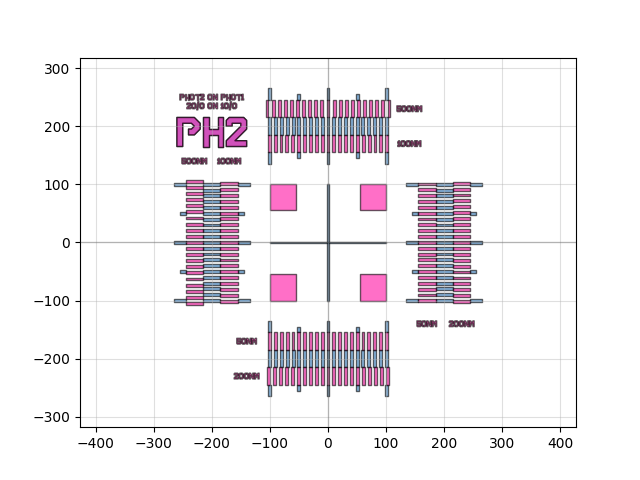
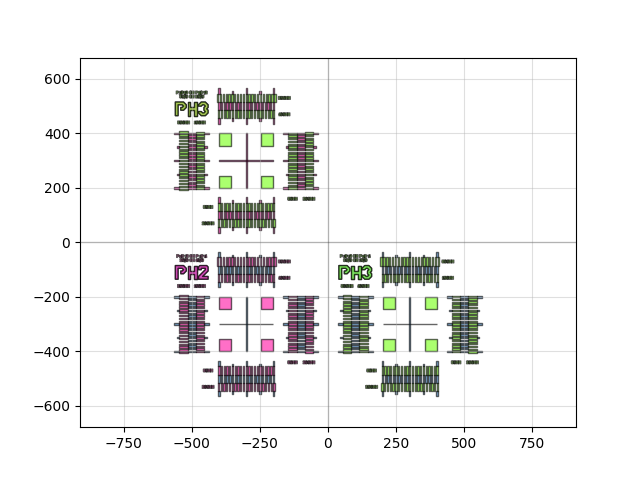
change default args for test_structures.multilayer_alignment so image looks different

diff --git a/docs/user/plot_images.py b/docs/user/plot_images.py
@@ -18,7 +18,7 @@ def plot_and_save_functions():
     script_dir = os.path.dirname(__file__)
     save_dir = os.path.join(script_dir, "images")
     set_quickplot_options(blocking=False, show_subports=False)
-    for name, attr in qg._devices.items():
+    for name, attr in qg.decorator._devices.items():
         if not (
             callable(attr) and hasattr(attr, "__call__") and not isinstance(attr, type)
         ):

diff --git a/src/qnngds/test_structures.py b/src/qnngds/test_structures.py
@@ -179,7 +179,7 @@ def alignment_mark(layer1: LayerSpec = (1, 0), layer2: LayerSpec = (10, 0)) -> D
 
 @qg.device
 def multilayer_alignment(
-    layers: LayerSpecs = ["PHOTO1", "PHOTO2"],
+    layers: LayerSpecs = ["PHOTO1", "PHOTO2", "PHOTO3"],
 ) -> Device:
     """Creates an alignment mark for each lithography layer.
 

diff --git a/docs/user/api.rst b/docs/user/api.rst
@@ -3,6 +3,17 @@
 API
 ===
 
+.. _Decorator:
+Decorator
+---------
+
+.. automodule:: qnngds.decorator
+    :members:
+    :exclude-members:
+    :undoc-members:
+    :show-inheritance:
+    :special-members: __init__
+
 .. _Devices:
 Devices
 -------
